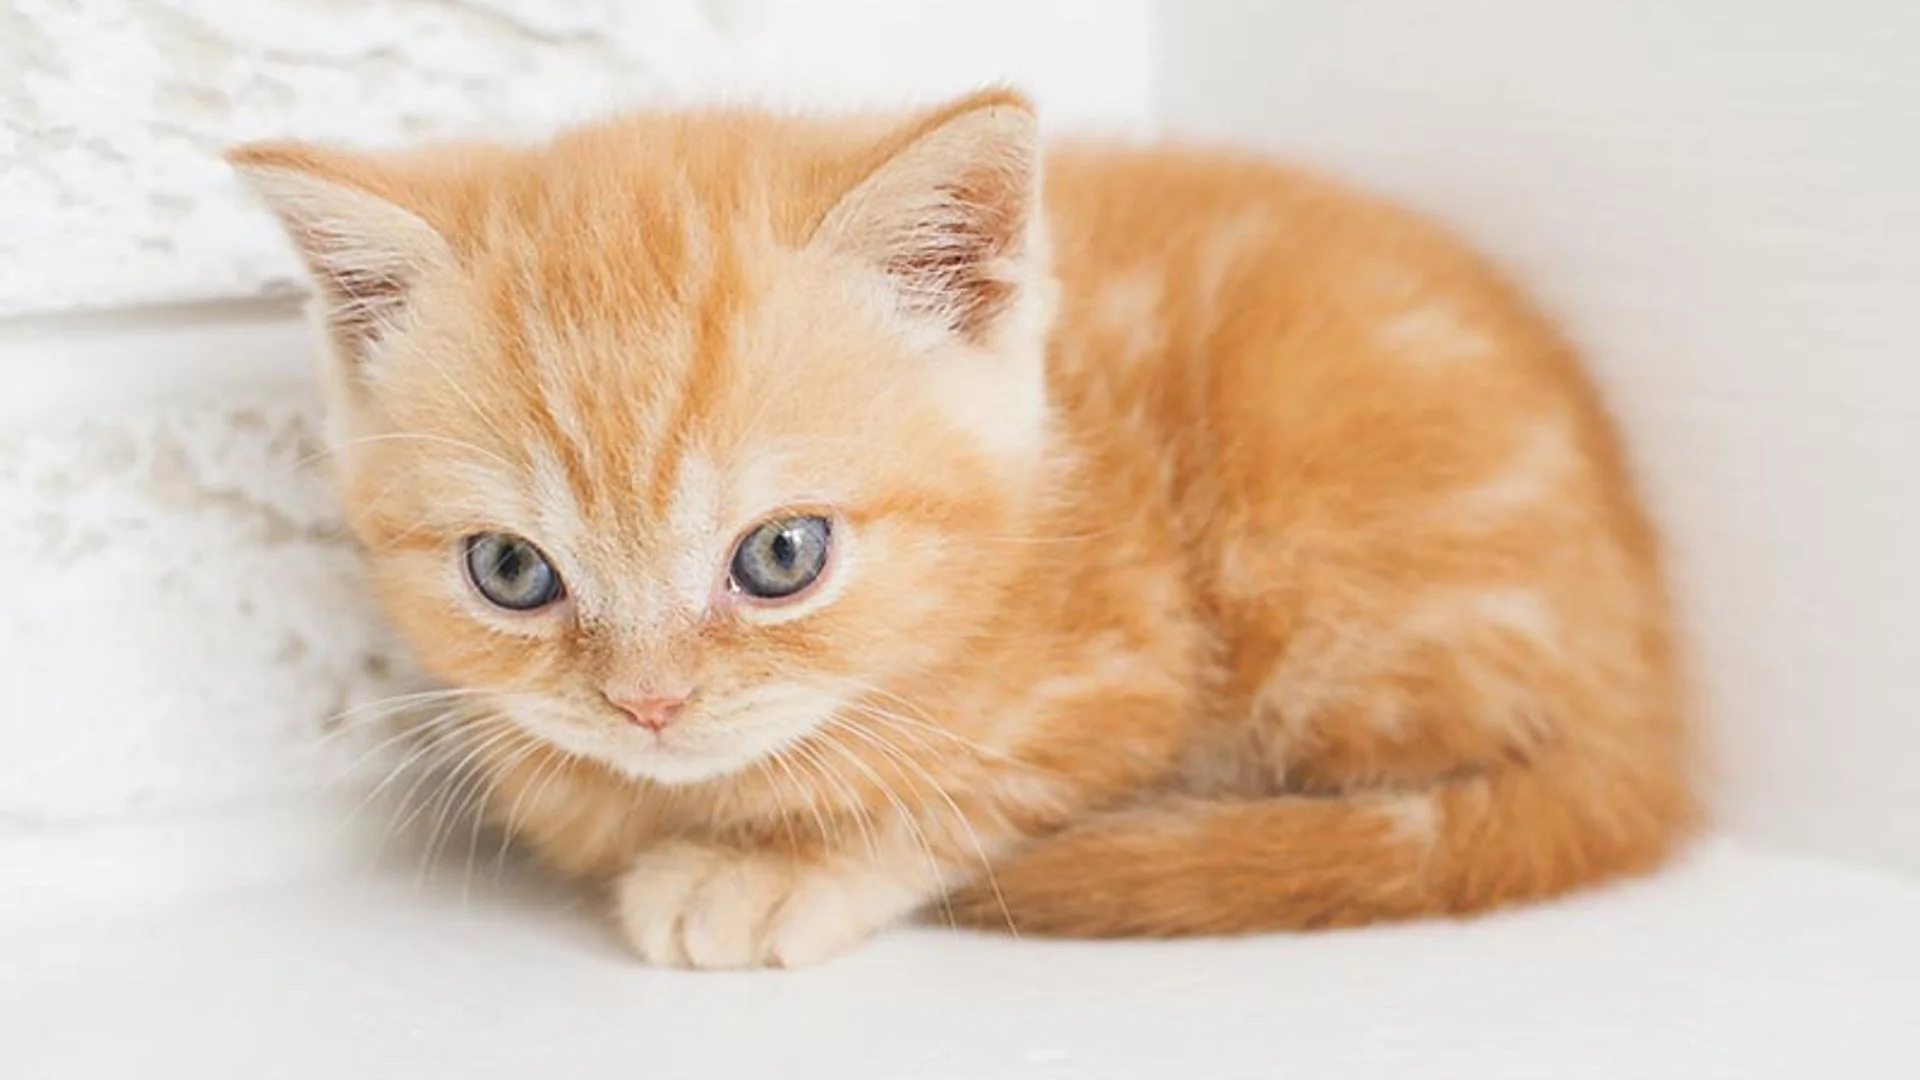
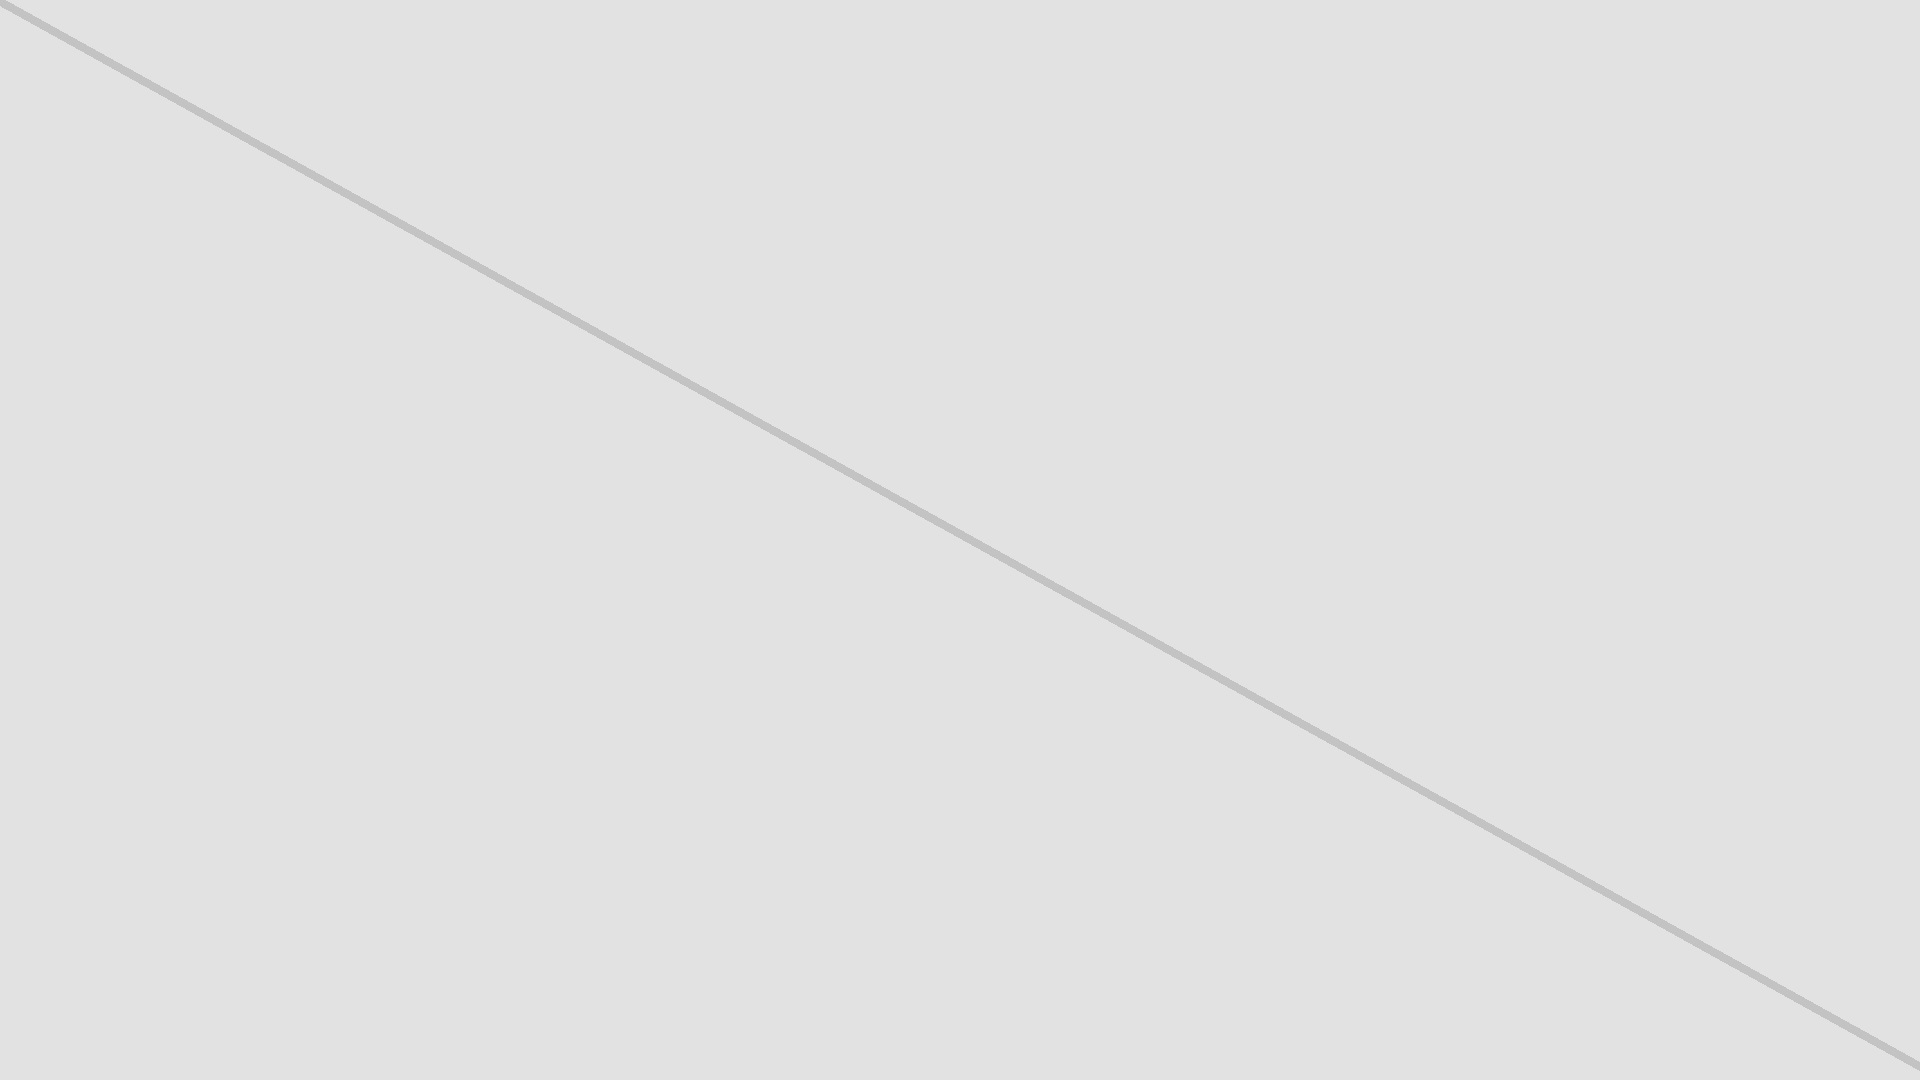
mas deco sii

diff --git a/index.html b/index.html
@@ -22,8 +22,11 @@
                 <img src="assets/cruz.png" class="iconcito m-2" alt="Cerrar Pestaña Cruz">
             </div>
             
-            <h1 class="m-3">ֺּׅ𓏽⑅ <strong>Recetas</strong> (˵˃ ᗜ ˂˵)</h1>
-            <p class="m-4">Lorem ipsum dolor sit amet, consectetuer adipiscing elit. Aenean commodo ligula eget dolor. Aenean massa. Cum sociis natoque penatibus et magnis dis parturient montes, nascetur ridiculus mus. Donec quam felis, ultricies nec, pellentesque eu, pretium quis, sem. Nulla consequat massa quis enim. Donec pede justo, fringilla vel, aliquet nec, vulputate eget, arcu. In enim justo, rhoncus ut, imperdiet a, venenatis vitae, justo. Nullam dictum felis eu pede mollis pretium. Integer</p>
+            <div class="d-flex align-items-center justify-content-between m-2">
+                <h1 class="m-3">ֺּׅ𓏽⑅ <strong>Recetas</strong> (˵˃ ᗜ ˂˵)</h1>
+                <img src="assets/estrella.png" style="width: clamp(24px, 20vw, 150px);" alt="Estrella">
+            </div>
+            <p class="m-4">Bienvenido a mi página de <span class="subrayado-verde">recetas</span>!! (≧ヮ≦) ♡ 𝒂cá pueden encontrar <span class="subrayado-azul">instrucciones detalladas</span> para distintos postrecitos¡!! 𝓮spero las pruebes y te gusten¡ <span class="subrayado-rojo">ˊ⩌ˋ</span></p>
             <div class="contenedor-recetas m-4">
                 <div class="row mb-4">
                     <div class="col-12 col-md-6">

diff --git a/styles.css b/styles.css
@@ -7,22 +7,22 @@ body {
 
 .contenedor-todo {
     margin: 35px;
-    border: 4px solid rgba(242, 126, 202, 1);
+    border: 4px solid rgb(73, 101, 255);
     border-radius: 5px;
-    background-color: rgb(253, 225, 237);
+    background: linear-gradient(to top, rgb(199, 214, 247), rgb(227, 234, 250));
     box-shadow: 0 0 20px 5px #ffffff;
 }
 
 .contenedor-recetas {
     margin: 10px;
     padding: 20px;
-    border: 2px dashed #fc54b6;
+    border: 2px dashed #7e9ff8;
     border-radius: 5px;
 }
 
 .deco-header {
-    background: linear-gradient(180deg,rgba(255, 191, 221, 1) 0%, rgba(238, 98, 166) 25%, rgb(238, 98, 166) 75%, rgb(248, 135, 188) 100%);
-    border-bottom: 4px solid rgba(242, 126, 202, 1);
+    background: linear-gradient(180deg,rgb(147, 185, 255) 0%, rgb(73, 101, 255) 25%, rgb(73, 101, 255) 75%, rgb(117, 149, 255) 100%);
+    border-bottom: 4px solid rgb(73, 101, 255);
 }
 /*cambiar colores pq se ve feo la vdd, y las imagenes */
 
@@ -33,9 +33,26 @@ body {
 
 p {
     font-family: 'Inconsolata', monospace;
+    font-size: clamp(10px, 4vw, 18px);
 }
 
 h1 {
     font-family: 'Inconsolata', monospace;
-    color: #f04dac;
+    color: #4d50f0;
+}
+
+.subrayado-verde {
+    text-decoration: underline wavy #53dd41;
+}
+
+.subrayado-azul {
+    text-decoration: underline double #2842d3;
+}
+
+.subrayado-rojo {
+    text-decoration: underline wavy #f0375f;
+}
+
+p::first-letter {
+    text-decoration: underline solid #000000;
 }
